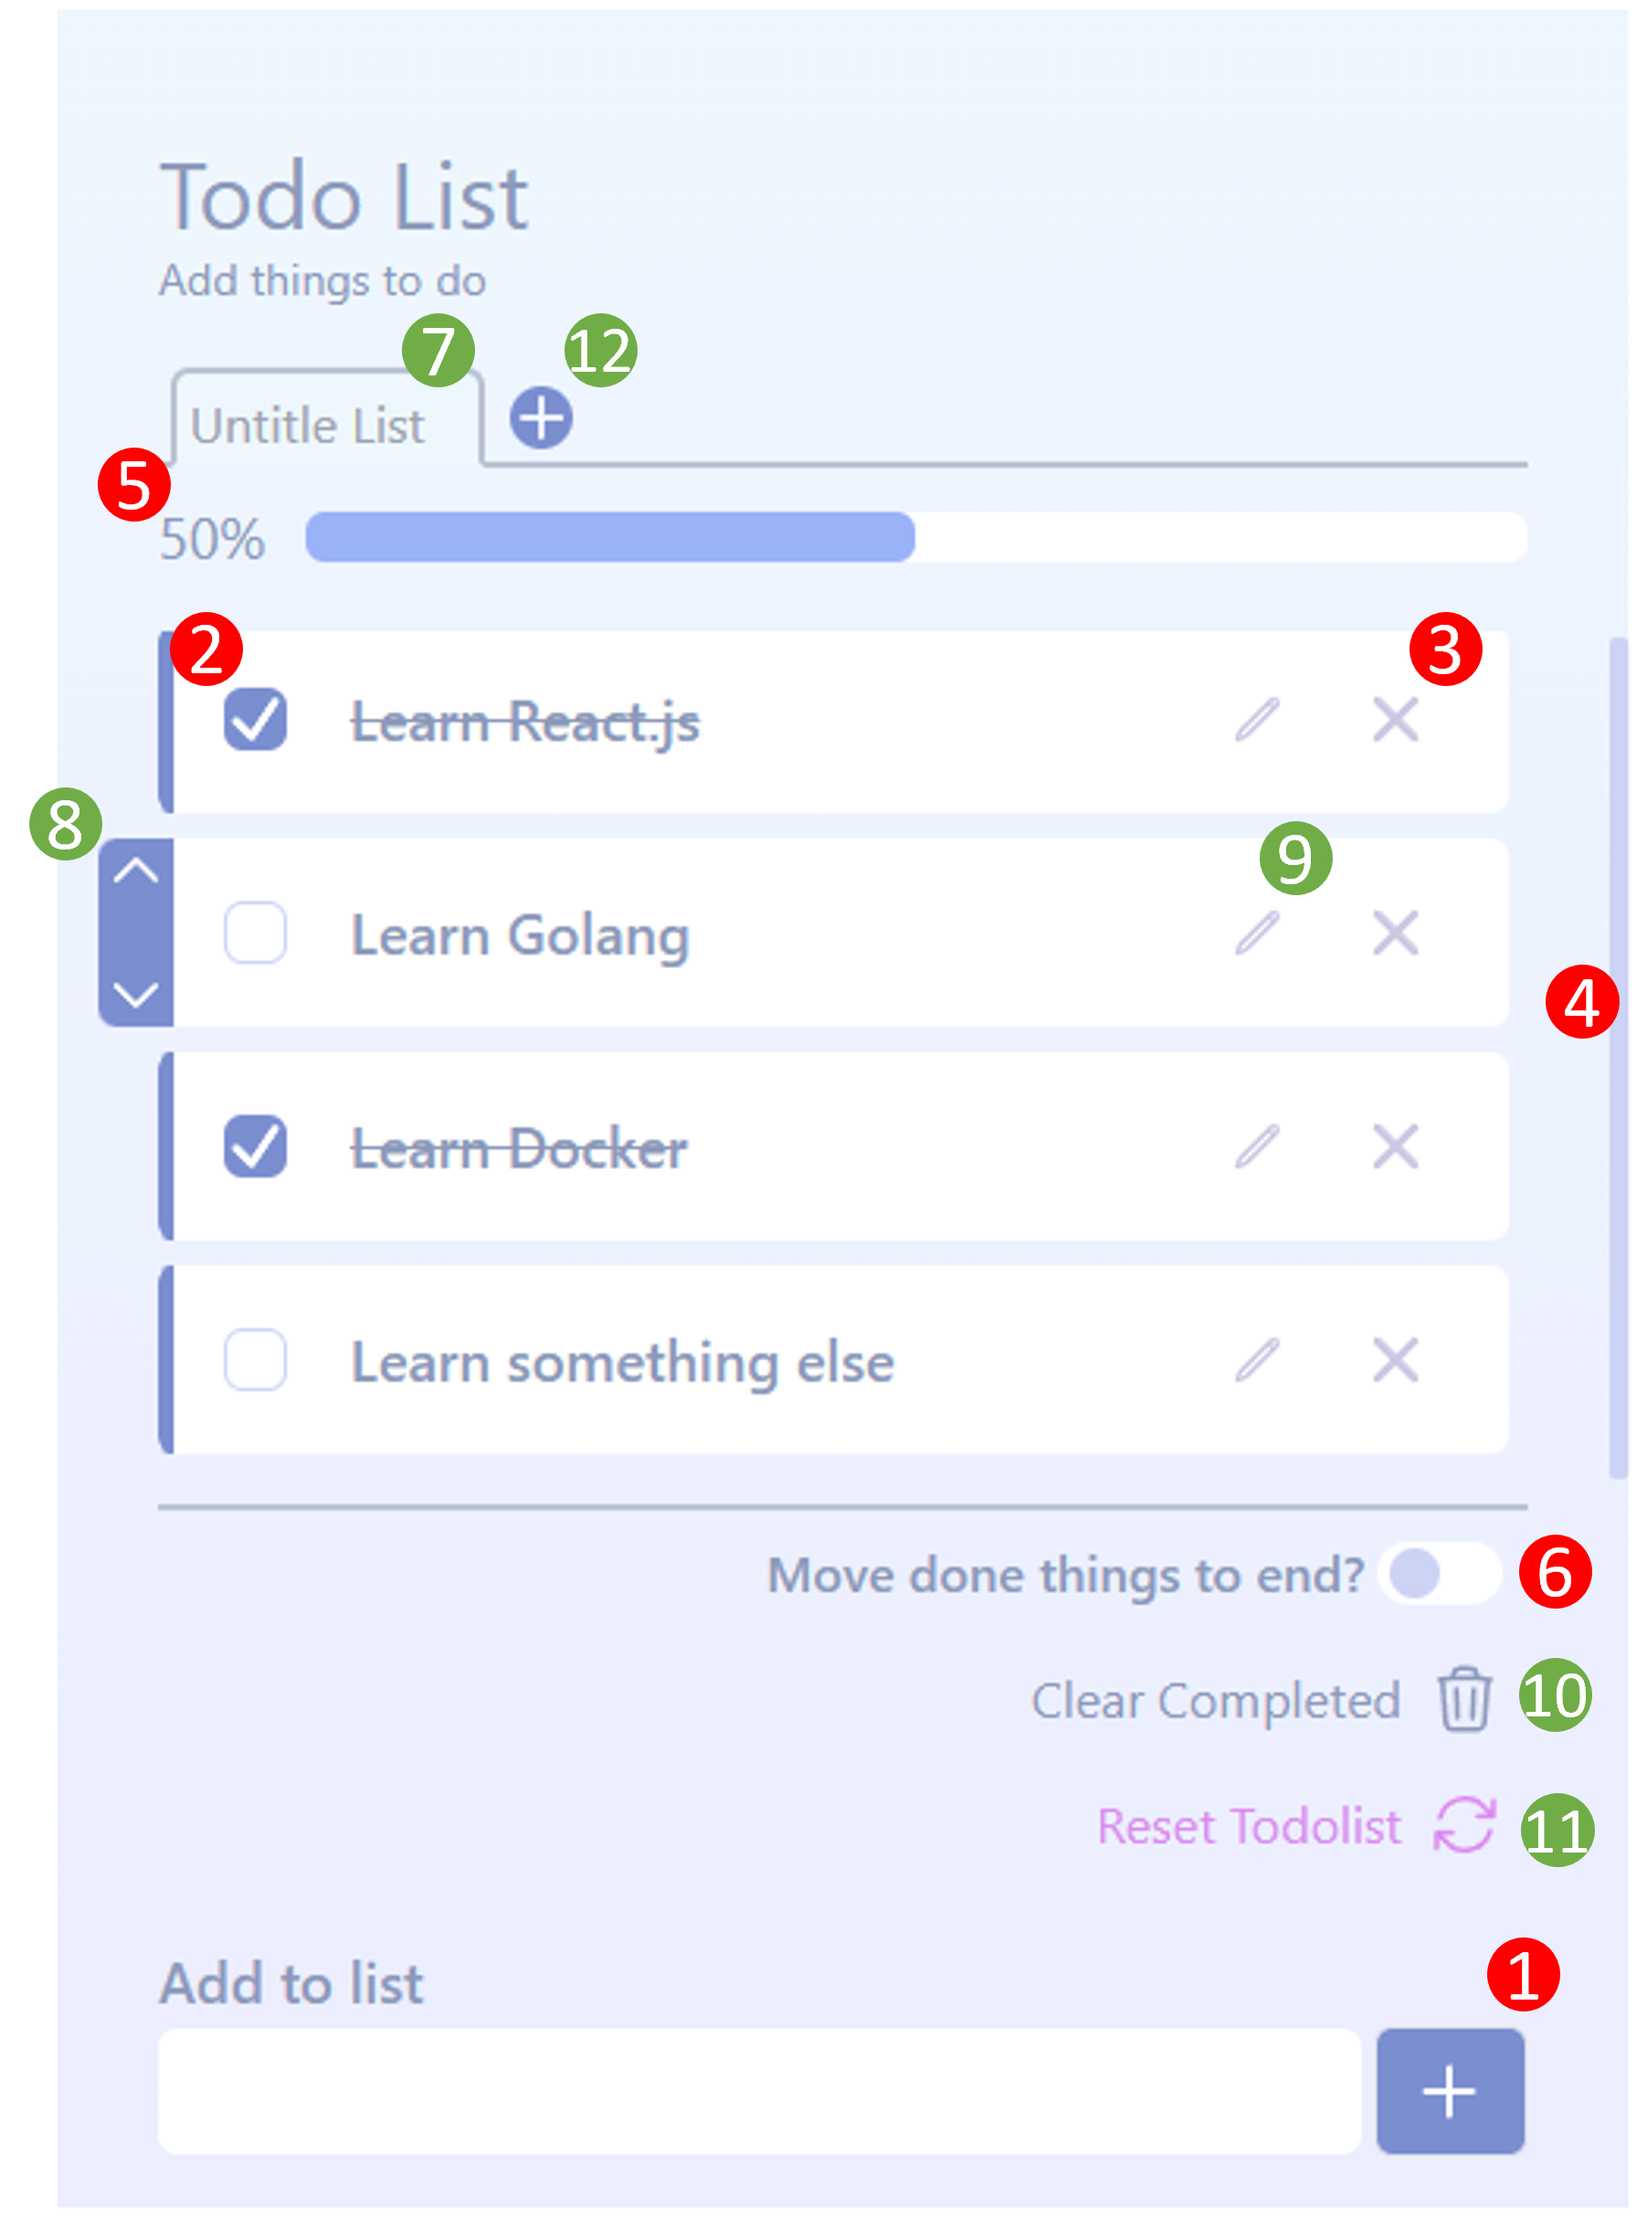
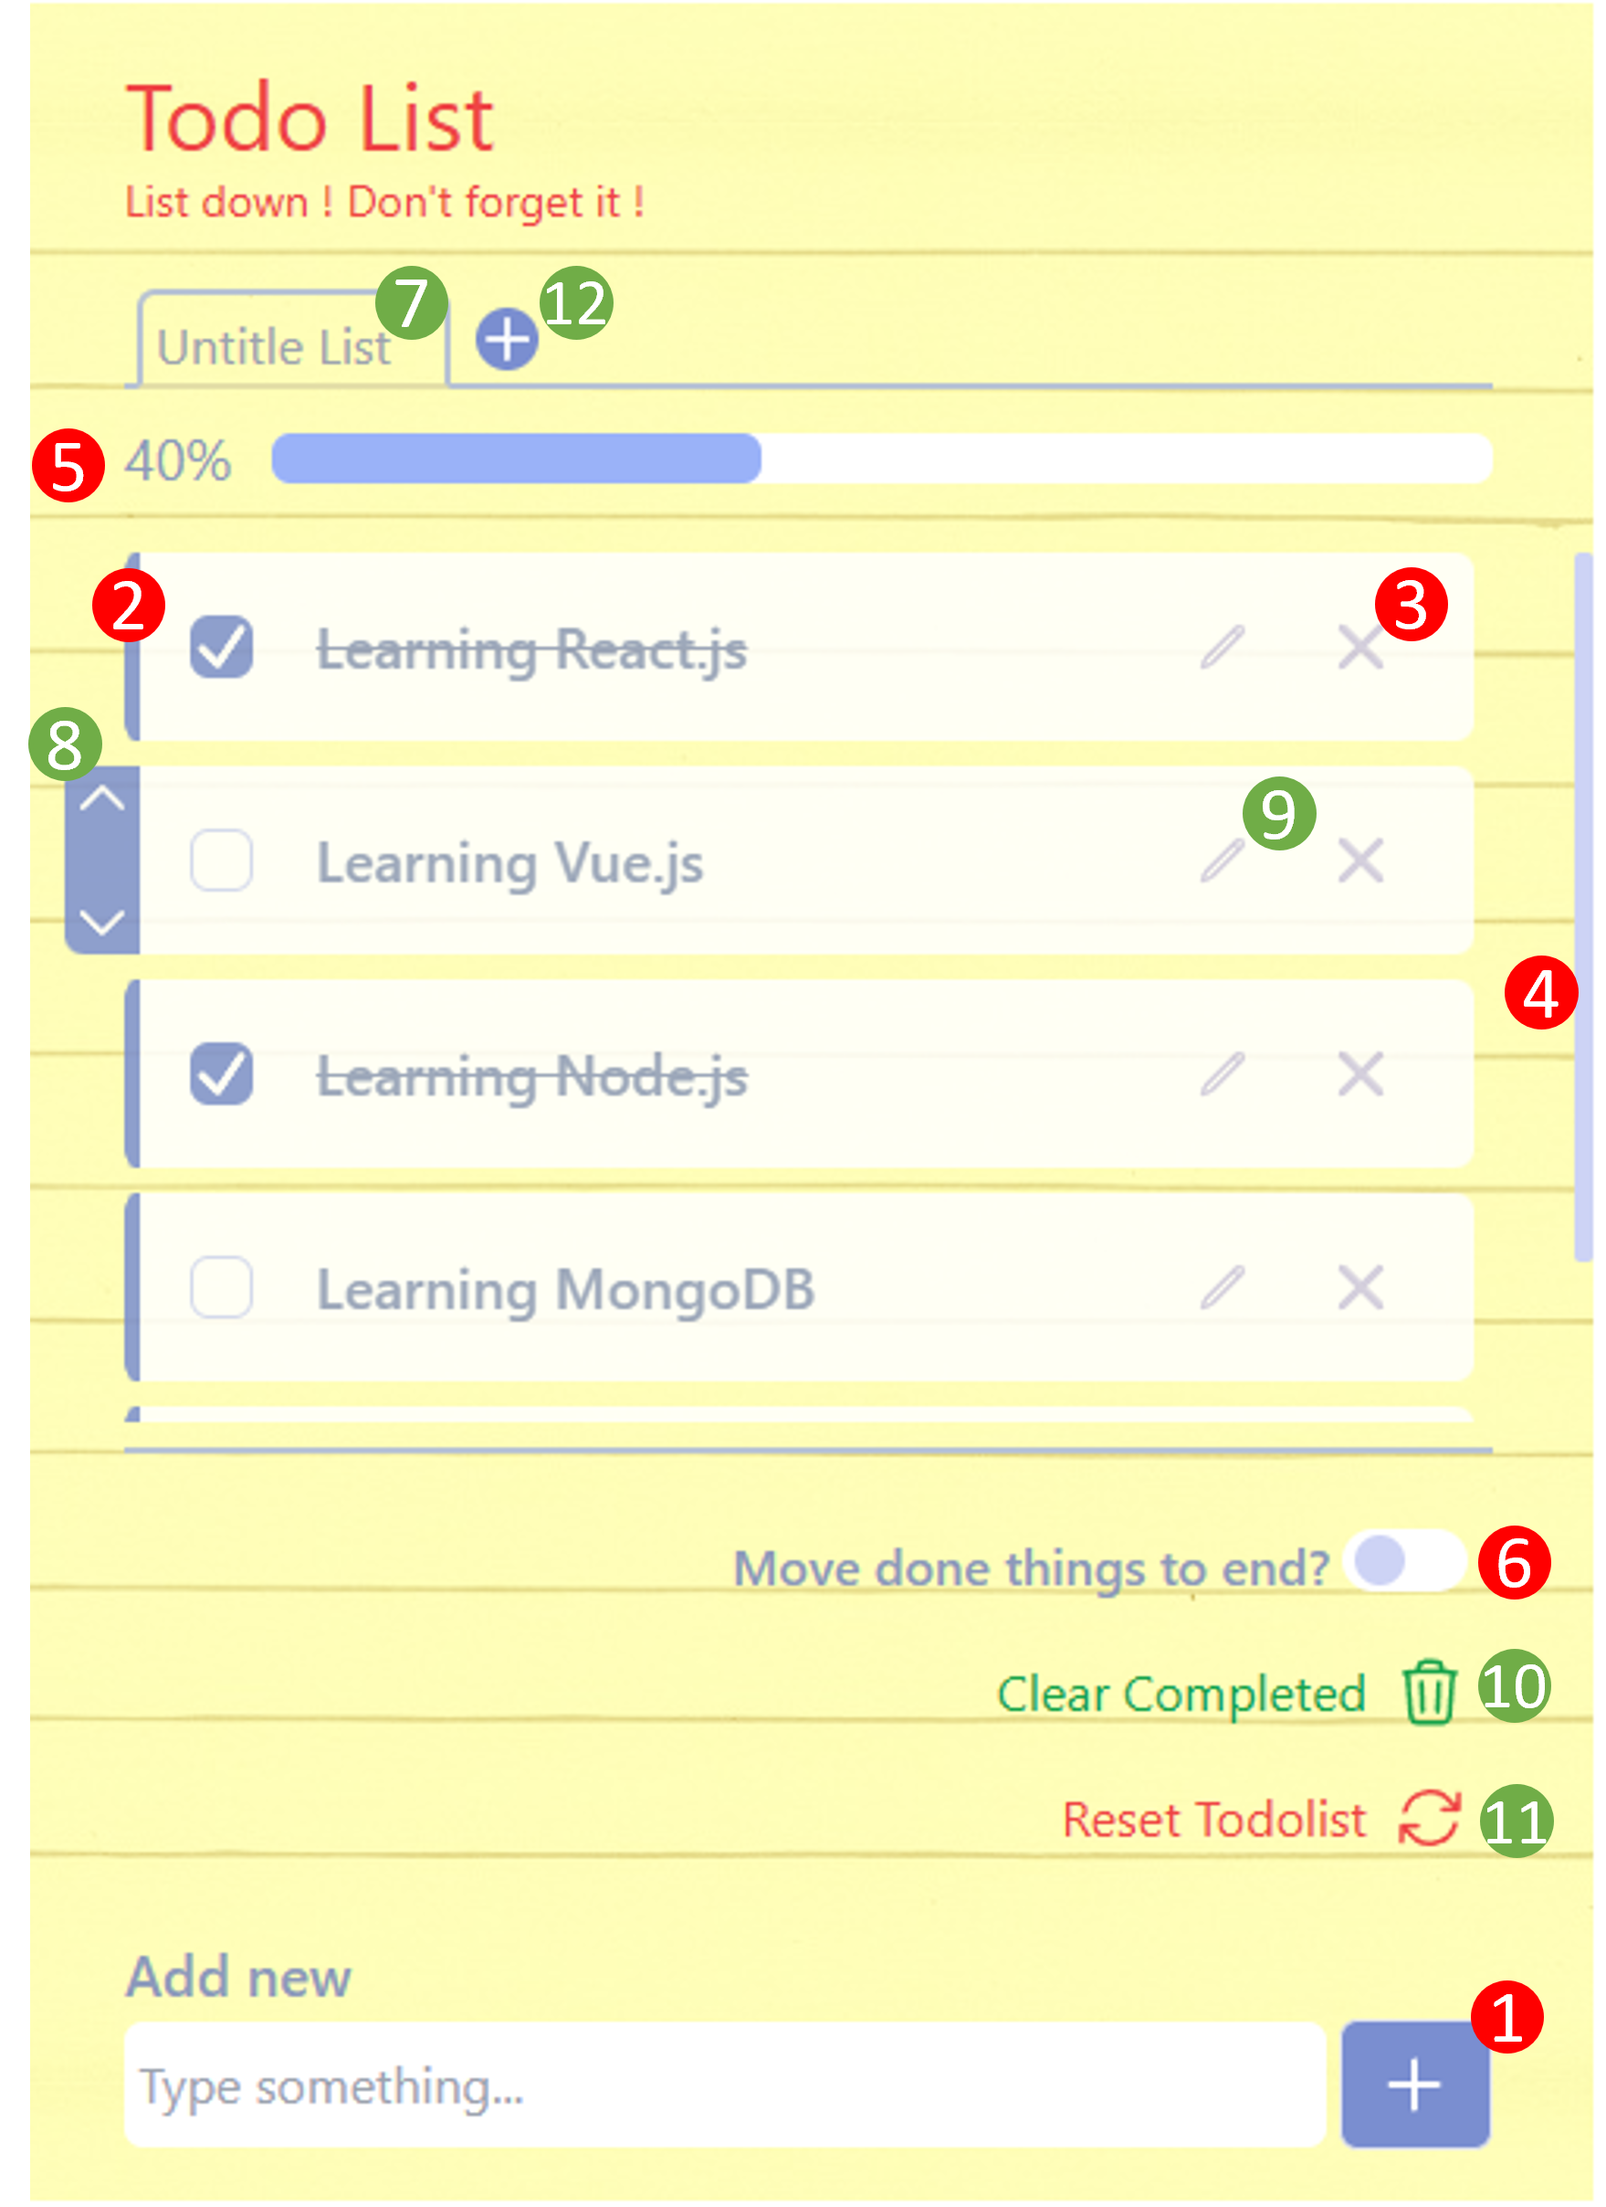
none

diff --git a/src/components/Dashboard.jsx b/src/components/Dashboard.jsx
@@ -137,12 +137,12 @@ function Dashboard() {
 
     return (
         <div className="w-screen h-screen flex items-center justify-center">
-            <div className="w-[500px] h-[700px] flex flex-col text-tertiary bg-gradient-to-b from-[#eef7fe] to-[#ecedff]">
+            <div className="w-[500px] h-[700px] flex flex-col text-tertiary bg-custom-image bg-center bg-yellow-300 bg-opacity-60 bg-blend-overlay">
 
                 {/*Logo與事項清單名稱*/}
-                <div className="text-left mx-8  mt-10 border-b-2 border-border">
-                    <h1 className=" text-3xl">Todo List</h1>
-                    <p className="mb-4 text-sm">Add things to do</p>
+                <div className="text-left mx-8  mt-[17px] border-b-2 border-border">
+                    <h1 className="text-red-500 text-3xl">Todo List</h1>
+                    <p className="mb-4 text-red-500 text-sm">List down ! Don't forget it !</p>
                     {/*事項清單名稱*/}
                     {Object.keys(tasks).map(pageNo =>
                         tasks[pageNo].isVisible && (
@@ -193,15 +193,15 @@ function Dashboard() {
 
                 {/*調整待辦/完成事項排序按鈕*/}
                 <div className="border-t-2 border-border text-right my-2 mx-8 p-2 pb-0  flex justify-end items-center">
-                    <p className=" font-medium">Move done things to end?</p>
-                    <button className={`w-[40px] h-5 p-1 ml-1 rounded-xl flex items-center ${moveToEnd ? "justify-end bg-secondary" : "justify-start bg-white"}`} onClick={() => setMoveToEnd(prevState => !prevState)}>
+                    <p className="mt-4 font-medium">Move done things to end?</p>
+                    <button className={`w-[40px] mt-3 h-5 p-1 ml-1 rounded-xl flex items-center ${moveToEnd ? "justify-end bg-secondary" : "justify-start bg-white"}`} onClick={() => setMoveToEnd(prevState => !prevState)}>
                         <div className={`bg-secondary w-4 h-4 rounded-full ${moveToEnd ? "hidden" : "block"}`}></div>
                         <div className={`bg-white w-4 h-4 rounded-full ${moveToEnd ? "block" : "hidden"}`}></div>
                     </button>
                 </div>
 
                 {/*清除完成事項按鈕*/}
-                <button className="mx-8 my-2 pr-2 flex justify-end" onClick={() => { setTodo([...todo.filter(item => !done.includes(item))]); setDone([]) }}>
+                <button className="mx-8 my-2 pr-2 flex justify-end text-green-600" onClick={() => { setTodo([...todo.filter(item => !done.includes(item))]); setDone([]) }}>
                     <p>Clear Completed</p>
                     <svg xmlns="http://www.w3.org/2000/svg" fill="none" viewBox="0 0 24 24" strokeWidth={1.5} stroke="currentColor" className="size-6 ml-2">
                         <path strokeLinecap="round" strokeLinejoin="round" d="m14.74 9-.346 9m-4.788 0L9.26 9m9.968-3.21c.342.052.682.107 1.022.166m-1.022-.165L18.16 19.673a2.25 2.25 0 0 1-2.244 2.077H8.084a2.25 2.25 0 0 1-2.244-2.077L4.772 5.79m14.456 0a48.108 48.108 0 0 0-3.478-.397m-12 .562c.34-.059.68-.114 1.022-.165m0 0a48.11 48.11 0 0 1 3.478-.397m7.5 0v-.916c0-1.18-.91-2.164-2.09-2.201a51.964 51.964 0 0 0-3.32 0c-1.18.037-2.09 1.022-2.09 2.201v.916m7.5 0a48.667 48.667 0 0 0-7.5 0" />
@@ -209,7 +209,7 @@ function Dashboard() {
                 </button>
 
                 {/*重置事項清單(todo/done/listName)*/}
-                <button className="mx-8 my-2 pr-2 flex justify-end  text-[#DB8AEF]" onClick={() => handleResetTodolist()}>
+                <button className="mx-8 my-2 pr-2 flex justify-end  text-red-500" onClick={() => handleResetTodolist()}>
                     <p>Reset Todolist</p>
                     <svg xmlns="http://www.w3.org/2000/svg" fill="none" viewBox="0 0 24 24" strokeWidth={1.5} stroke="currentColor" className="size-6 ml-2">
                         <path strokeLinecap="round" strokeLinejoin="round" d="M16.023 9.348h4.992v-.001M2.985 19.644v-4.992m0 0h4.992m-4.993 0 3.181 3.183a8.25 8.25 0 0 0 13.803-3.7M4.031 9.865a8.25 8.25 0 0 1 13.803-3.7l3.181 3.182m0-4.991v4.99" />
@@ -218,9 +218,9 @@ function Dashboard() {
 
                 {/*Input*/}
                 <form className="flex flex-col justify-start  mt-4 mb-4 mx-8" onSubmit={(e) => { handleAddTodo(e) }}>
-                    <div className="text-left text-lg font-medium ">Add to list</div>
+                    <div className="text-left text-lg font-medium ">Add new</div>
                     <div className="flex items-center ">
-                        <input className="rounded-md h-10 w-full mr-1" value={matter} onChange={(e) => { setMatter(e.target.value) }} />
+                        <input className="rounded-md h-10 w-full mr-1" value={matter} onChange={(e) => { setMatter(e.target.value) }} placeholder=" Type something..." />
                         {/*新增待辦事項按鈕*/}
                         <button className="border bg-primary rounded-md w-14 flex justify-center">
                             <svg xmlns="http://www.w3.org/2000/svg" fill="none" viewBox="0 0 24 24" strokeWidth={2.0} stroke="white" className="size-10 p-2">

diff --git a/src/components/PageTitle.jsx b/src/components/PageTitle.jsx
@@ -60,7 +60,7 @@ function PageTitle({ pageNo, onClick }) {
 
 
     return (
-        <div className={`group inline-block ml-1 relative top-[2px] rounded-md  ${pageNo === page ? "bg-[#eef7fe]" : "bg-white"}`} onClick={onClick}>
+        <div className={`group inline-block ml-1 relative top-[2px] rounded-md  ${pageNo === page ? "bg-transparent" : "bg-white opacity-85"}`} onClick={onClick}>
             <input
                 ref={inputOfListName}
                 type="text"
@@ -68,7 +68,7 @@ function PageTitle({ pageNo, onClick }) {
                 onChange={(e) => handleListNameChnage(e.target.value)}
                 onKeyDown={e => handleKeyDown(e)}
                 className={`w-[100px] border-2 border-border  ml-0 -mb-0 p-1 pb-0 rounded-t-md hover:cursor-pointer bg-transparent
-                    ${pageNo === page ? "border-b-[#eef7fe]" : ""}`}
+                    ${pageNo === page ? "border-b-[#e4dfa7]" : ""}`}
                 readOnly={readOnly}
                 placeholder="Untitle List" />
 

diff --git a/src/components/Todo.jsx b/src/components/Todo.jsx
@@ -111,7 +111,7 @@ function Todo({ content, todo, done, setTodo, setDone }) {
     }
 
     return (
-        <div className="border-l-[5px] border-primary rounded-md mb-2 relative group">
+        <div className="border-l-[5px] border-primary rounded-md mb-2 relative group opacity-85">
             {/*次要功能區塊: 順序交換按鈕*/}
             <div className="absolute flex flex-col justify-between items-center -left-1 w-[4px] h-full rounded-l-md bg-primary group-hover:w-[24px] group-hover:-left-6 transition-all duration-300">
                 {/*思路: 如果代辦事項本身存在於done中，就不需要顯示順序交換按鈕*/}

diff --git a/tailwind.config.js b/tailwind.config.js
@@ -8,7 +8,10 @@ module.exports = {
         "secondary": "#cdd3f5",
         "tertiary": "#8c99bb",
         "border": "#b8c3d3",
-      }
+      },
+      backgroundImage: {
+        "custom-image": "url('/images/bg3.jpg')",
+      },
     },
   },
   plugins: [],
